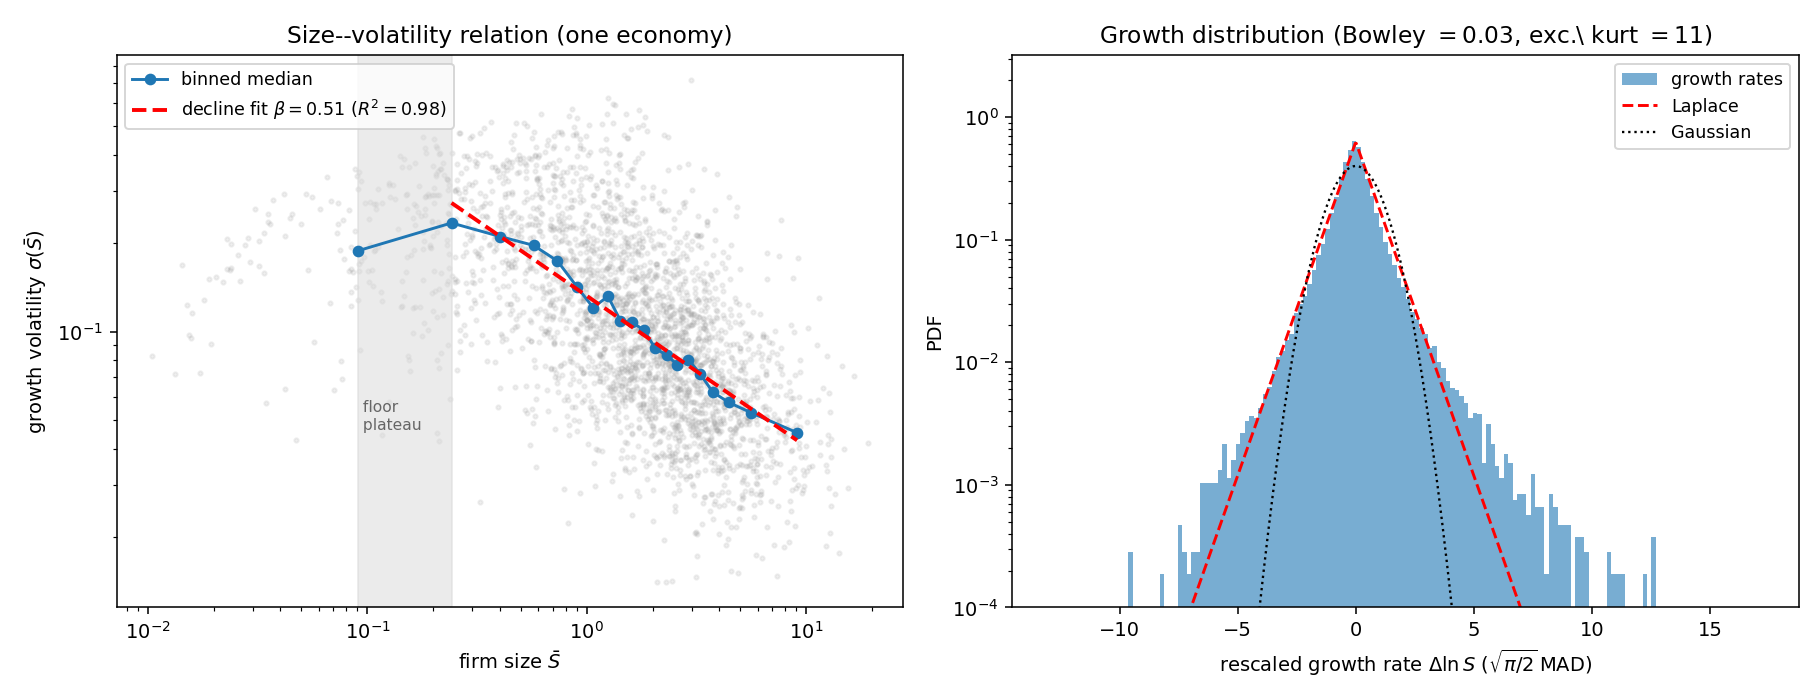
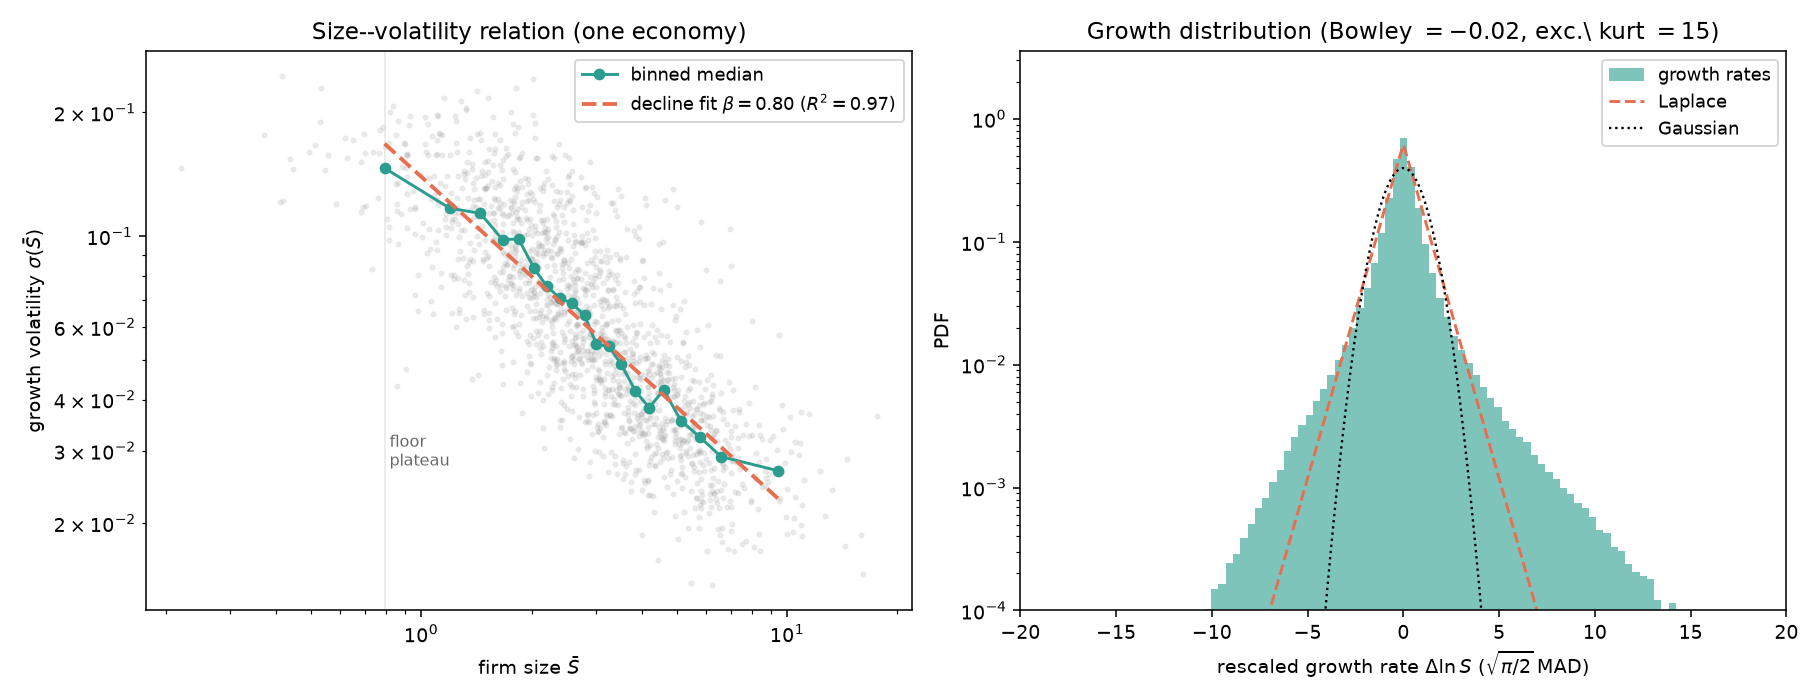
style(thesis): teal-forward palette on relative-model figures
Re-theme stationary-MSB, multiscaling, conditional to match the notebook
(teal primary, coral fits/empirical, navy secondary). Data unchanged.

diff --git a/growing_glv/regen_msb_owndeg.py b/growing_glv/regen_msb_owndeg.py
@@ -1,0 +1,91 @@
+"""Regenerate growing_stationary_msb.png under the OWN-DEGREE normalization.
+
+The mean-degree normalization is gone from the thesis; this figure (size--volatility
+relation + growth tent) must therefore be the own-degree one. Reuses the validated
+own-degree model/MSB code in ../relative-glv (kind='powerlaw_owndeg') at the locked
+operating point mu=1.76 (=chapter mu=-1.76), sigma=1.75, N=6400.
+
+    uv run python growing_glv/regen_msb_owndeg.py [--smoke]
+"""
+import sys, os
+sys.path.insert(0, os.path.join(os.path.dirname(__file__), "..", "..", "relative-glv"))
+import numpy as np
+import matplotlib
+matplotlib.use("Agg")
+import matplotlib.pyplot as plt
+from scipy.stats import laplace, norm
+from joblib import Parallel, delayed
+from relative_glv.model import coupling, integrate, growth_rate
+from relative_glv.msb import size_volatility, tent_stats, rescale
+
+THESIS = os.path.join(os.path.dirname(__file__), "..", "thesis")
+SMOKE = "--smoke" in sys.argv
+MU, SIGMA, LAM = 1.76, 1.75, 1e-3
+N, SEEDS = (800, 3) if SMOKE else (6400, 8)
+TMAX, N_EVAL = (120.0, 600) if SMOKE else (400.0, 800)
+LATE, DT = ((95.0, 118.0) if SMOKE else (320.0, 390.0)), 0.5
+
+
+def simulate(seed):
+    a = coupling(N, MU, SIGMA, kind="powerlaw_owndeg", seed=seed)
+    r = integrate(a, tmax=TMAX, n_eval=N_EVAL, lam=LAM, seed=seed,
+                  method="RK45", rtol=1e-4, atol=1e-7)
+    if not r["success"]:
+        return None
+    sv = size_volatility(r["W"], r["t"], window=LATE, dt=DT, n_bins=20)
+    if sv["growth"].size == 0 or not np.isfinite(sv["beta"]):
+        return None
+    sv["g_eff"] = growth_rate(r["t"], r["lnM"], frac=0.3)
+    return sv
+
+
+if __name__ == "__main__":
+    recs = [r for r in Parallel(n_jobs=6, backend="loky")(
+        delayed(simulate)(s) for s in range(SEEDS)) if r is not None]
+    assert recs, "no economies survived integration"
+
+    # left panel: the economy whose beta is closest to the median, so the displayed exponent
+    # is representative rather than a best-fit outlier
+    beta_med0 = float(np.median([r["beta"] for r in recs]))
+    best = min(recs, key=lambda r: abs(r["beta"] - beta_med0))
+    # tent: rescale EACH economy by its own MAD before pooling, so cross-economy scale
+    # differences do not inflate the kurtosis; report the median per-economy shape (the ch4
+    # convention, consistent with the ablation table and the conditional figure)
+    z = np.concatenate([rescale(r["growth"]) for r in recs])
+    per_econ = [tent_stats(r["growth"]) for r in recs]
+    ts = dict(bowley=float(np.median([t["bowley"] for t in per_econ])),
+              exkurt=float(np.median([t["exkurt"] for t in per_econ])))
+    beta_med = float(np.median([r["beta"] for r in recs]))
+    print(f"[regen owndeg] economies={len(recs)} N={N}  beta(shown)={best['beta']:.2f} "
+          f"r2={best['r2']:.2f}  beta(median)={beta_med:.2f}  "
+          f"bowley(med)={ts['bowley']:+.2f} exk(med)={ts['exkurt']:.0f}", flush=True)
+
+    fig, ax = plt.subplots(1, 2, figsize=(13, 5))
+    svS, svV = best["Sbar"], best["vol"]
+    bx, by, pk = best["bin_S"], best["bin_vol"], int(best["pk"])
+    live = (svV > 0) & np.isfinite(svV) & (svS > 0)
+    ax[0].scatter(svS[live], svV[live], s=5, alpha=0.15, color="0.6")
+    ax[0].plot(bx, by, "o-", color="#2a9d8f", ms=5, label="binned median")
+    c = np.polyfit(np.log10(bx[pk:]), np.log10(by[pk:]), 1)
+    xx = np.array([bx[pk], bx[-1]])
+    ax[0].plot(xx, 10 ** np.polyval(c, np.log10(xx)), color="#e76f51", ls="--", lw=2,
+               label=fr"decline fit $\beta={best['beta']:.2f}$ ($R^2={best['r2']:.2f}$)")
+    ax[0].axvspan(bx[0], bx[pk], color="0.85", alpha=0.5)
+    ax[0].text(bx[0], by.min(), " floor\n plateau", fontsize=8, va="bottom", color="0.4")
+    ax[0].set(xscale="log", yscale="log", xlabel=r"firm size $\bar S$",
+              ylabel=r"growth volatility $\sigma(\bar S)$",
+              title="Size--volatility relation (one economy)")
+    ax[0].legend(fontsize=9)
+
+    xx = np.linspace(-8, 8, 400)
+    ax[1].hist(z, bins=160, density=True, color="#2a9d8f", alpha=0.6, label="growth rates")
+    ax[1].plot(xx, laplace.pdf(xx, scale=np.sqrt(2 / np.pi)), color="#e76f51", ls="--", lw=1.5, label="Laplace")
+    ax[1].plot(xx, norm.pdf(xx), "k:", lw=1.2, label="Gaussian")
+    ax[1].set_yscale("log"); ax[1].set_ylim(1e-4, None); ax[1].set_xlim(-20, 20)
+    ax[1].set(xlabel=r"rescaled growth rate $\Delta\ln S$ ($\sqrt{\pi/2}\,$MAD)", ylabel="PDF",
+              title=fr"Growth distribution (Bowley $={ts['bowley']:.2f}$, exc.\ kurt $={ts['exkurt']:.0f}$)")
+    ax[1].legend(fontsize=9)
+    plt.tight_layout()
+    out = os.path.join(THESIS, "growing_stationary_msb.png")
+    plt.savefig(out, dpi=140); plt.close()
+    print(f"[regen owndeg] wrote {out}", flush=True)
